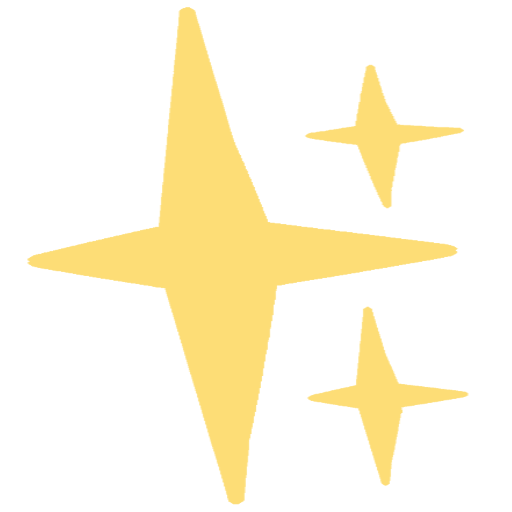
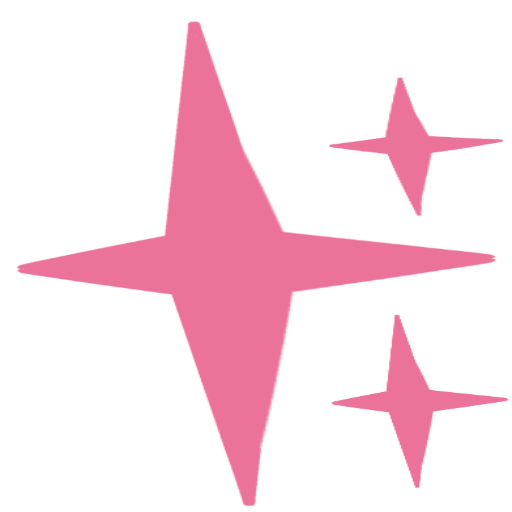
color & sizing

Changed region(s): [[0.0312, 0.0, 0.9688, 1.0], [0.5938, 0.5938, 1.0, 0.9688], [0.5938, 0.125, 1.0, 0.4375]]

diff --git a/docs/stylesheets/extra.css b/docs/stylesheets/extra.css
@@ -17,7 +17,7 @@
    /* Three columns side by side */
 .column {
   float: left;
-  width: 50%;
+  width: 25%;
   margin-bottom: 16px;
   padding: 0 16px;
 }

diff --git a/docs/donate.md b/docs/donate.md
@@ -7,14 +7,14 @@ If you'd like to support The FreeMoCap Foundation, you can donate at any of the 
 - [**PayPal**](https://www.paypal.com/donate/?hosted_button_id=JTBVY428TSSAE)
 - [**Open Collective**](https://www.paypal.com/donate/?hosted_button_id=JTBVY428TSSAE)
 - [**Ko-Fi**](https://ko-fi.com/freemocap)
-- [**Patreon**](https://www.patreon.com/freemocap)
+<!-- - [**Patreon**](https://www.patreon.com/freemocap)
 - [**GitHub Sponsors**](https://github.com/sponsors/freemocap)
-- [**Ethereum**](https://freemocap.org/ethereum-wallet-page.html)
+- [**Ethereum**](https://freemocap.org/ethereum-wallet-page.html) -->
 
-## Legal Status
+<!-- ## Legal Status
 
 The FreeMoCap Foundation is a registered non-profit corporation in the State of Massachusetts.
 
 The FreeMoCap Foundation's 501c3 tax exampt status is pending. Eligible donations made to the Foundation may be retro-actively considered tax-exempt provided that we gain 501c3 status within 27 months of the date of incorporation, **March 2024**.
 
-To maintain financial transparency, The FreeMoCap Foundation will publish an annual report in the Summer/Fall of each year. In addition, per the legal obligations of a 501c3 tax exempt organization, the annual revenue to The FreeMoCap Foundation will be reported via an IRS 990 form.
+To maintain financial transparency, The FreeMoCap Foundation will publish an annual report in the Summer/Fall of each year. In addition, per the legal obligations of a 501c3 tax exempt organization, the annual revenue to The FreeMoCap Foundation will be reported via an IRS 990 form. -->
